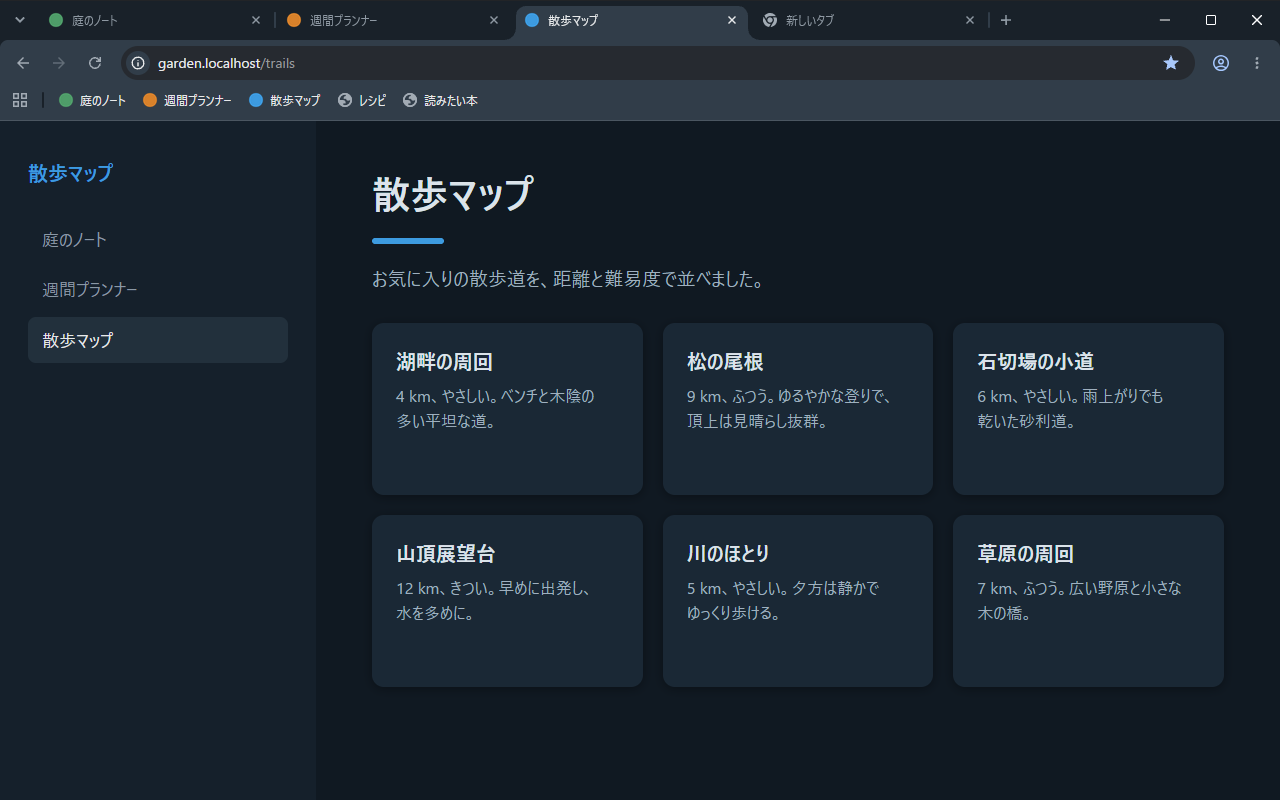
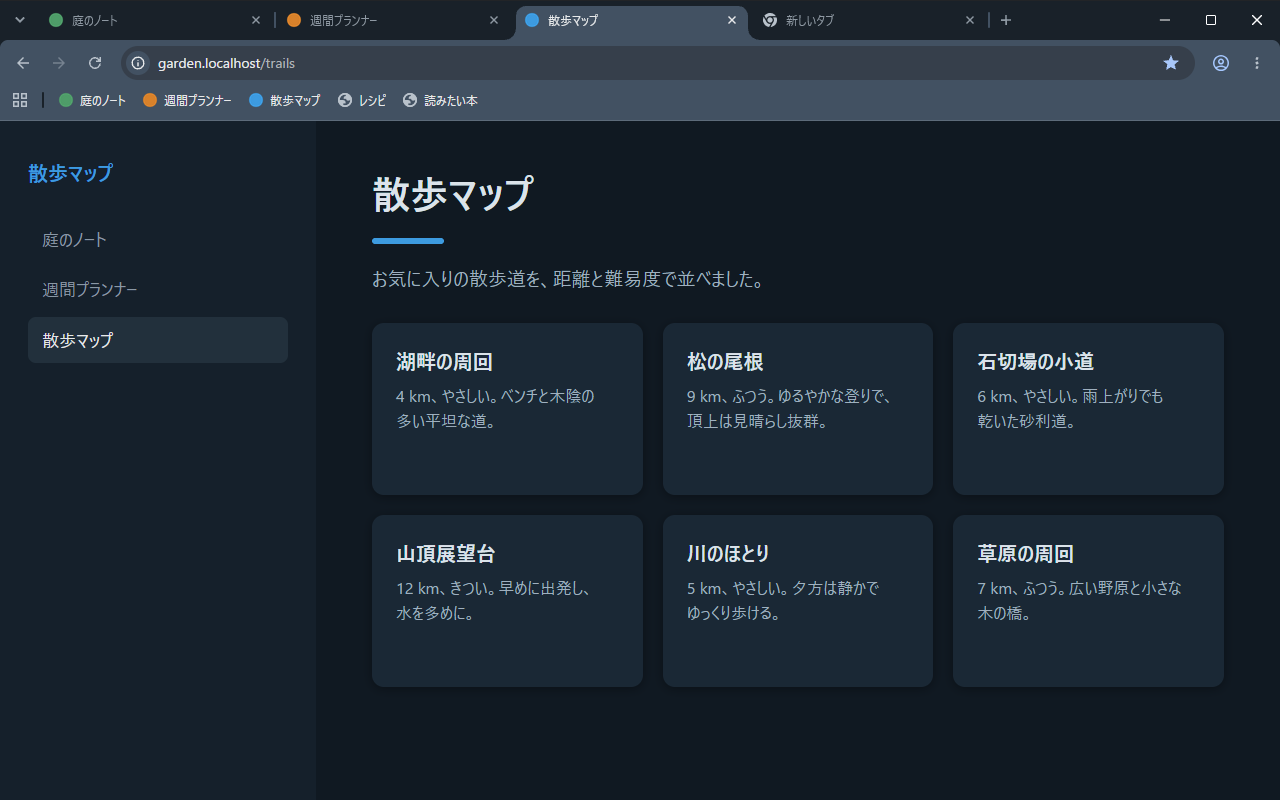
v1.0.2 リリース
ツールバーを明るくして枠との明暗差を 2.0 以上にし、Brave のピン留めタブの枠線を出なくした。
非アクティブなウィンドウの枠とツールバーのアイコンの色も合わせて調整した。
検査・文書・掲載画像も新しい配色に合わせた。

Changed region(s): [[0.0, 0.0, 1.0, 0.1562]]

diff --git a/scripts/check.ts b/scripts/check.ts
@@ -32,6 +32,14 @@ const PAIRS: [string, string][] = [
   ["ntp_text", "ntp_header"],
 ];
 const MIN_CONTRAST = 4.5;
+// 面どうしの組。toolbar 対 frame が 2.0 以上だと Brave のピン留めタブの枠線が消える（GetToolbarTopSeparatorColor）。
+const SURFACE_PAIRS: [string, string][] = [
+  ["toolbar", "frame"],
+  ["toolbar", "frame_inactive"],
+  ["toolbar", "frame_incognito"],
+  ["toolbar", "frame_incognito_inactive"],
+];
+const MIN_SURFACE_CONTRAST = 2.0;
 
 const errors: string[] = [];
 const manifestPath = resolve(process.argv[2] ?? join(import.meta.dir, "..", "manifest.json"));
@@ -73,6 +81,14 @@ for (const [fg, bg] of PAIRS) {
   const r = ratio(f, b);
   console.log(`${r >= MIN_CONTRAST ? "OK  " : "NG  "} ${r.toFixed(2).padStart(5)}  ${fg} on ${bg}`);
   if (r < MIN_CONTRAST) errors.push(`コントラスト不足 ${r.toFixed(2)}: ${fg} on ${bg}`);
+}
+
+for (const [a, c] of SURFACE_PAIRS) {
+  const x = rgb.get(a), y = rgb.get(c);
+  if (!x || !y) { errors.push(`コントラスト対象が未設定: ${a} / ${c}`); continue; }
+  const r = ratio(x, y);
+  console.log(`${r >= MIN_SURFACE_CONTRAST ? "OK  " : "NG  "} ${r.toFixed(2).padStart(5)}  ${a} on ${c} (面・2.0以上)`);
+  if (r < MIN_SURFACE_CONTRAST) errors.push(`面の明暗差不足 ${r.toFixed(2)}: ${a} on ${c}`);
 }
 
 // アイコン: 宣言サイズと PNG の IHDR の実寸が一致すること

diff --git a/scripts/screenshots.ts b/scripts/screenshots.ts
@@ -108,7 +108,7 @@ function runs(r: Raw, axis: "row" | "col", at: number, minLen = 6): string {
 
 // 各画像で「枠」「ツールバー」の色が既定色のままでないことを画素で確かめる（領域は撮影位置が固定なので固定値）
 type Check = { name: string; box: [number, number, number, number]; color: number[]; min: number };
-const FRAME = [0x19, 0x21, 0x29], TOOLBAR = [0x31, 0x3d, 0x49];
+const FRAME = [0x19, 0x21, 0x29], TOOLBAR = [0x42, 0x51, 0x62];
 const checks: Record<string, Check[]> = {
   "screenshot-01.png": [
     { name: "枠(タブ列の空き)", box: [1100, 8, 1140, 28], color: FRAME, min: 0.95 },

diff --git a/AGENTS.md b/AGENTS.md
@@ -1,13 +1,13 @@
 # Dim Dark Blue（Chrome ブラウザテーマ）
 
 - 配色の正本は `manifest.json` の `theme.colors`。色キーは Chromium `chrome/browser/themes/browser_theme_pack.cc` の `kOverwritableColorTable` にあるものだけ（無効キーは Chrome が無言で無視する）。配色表は README.md にも書いているので、変更時は両方を揃える。
-- `toolbar` は `frame` より明るくし、アクティブなタブを区別する（コントラスト比 約1.5。Chrome 既定は #3C3C3C と #1F2020 で約1.48）。Brave のピン留めタブの枠線は両者の明るさから自動で決まり、この配色では明るくなる。
+- `toolbar` は `frame`・`frame_inactive` より明るくし、アクティブなタブを区別する。コントラスト比は 2.0 以上に保つ（現在 約2.0。`check.ts` が検査する）。Brave のピン留めタブの枠線は両者の明るさから自動で決まり（GetToolbarTopSeparatorColor）、比が 2.0 以上だと消える。`frame_inactive` は `frame` と同色にして非アクティブでも比を保つ。`toolbar_button_icon` は toolbar 上で 4.5 以上の最小限の明るさ。
 - `button_background` は使わない（Windows の右上の3ボタンの背景に重なり、枠 `frame` と色がずれる）。
 - 検証: `bun --no-env-file scripts/check.ts`（概要文言・許可キー・RGB 範囲・文字コントラスト 4.5 以上・アイコン実寸）。
 - パッケージ: `bun --no-env-file scripts/pack.ts` で `DimDarkBlue.zip`（manifest.json・_locales・icons・LICENSE のみ）。名前は manifest に直書き、概要は `_locales/{en,ja}` に置く（ストアの掲載情報を日英に分けるため）。ZIP は git に入れない。
 - 版（`manifest.json` の `version`）は通常作業で上げない。上げるのは `/vava` の依頼時だけ。
-- ストア用 CI は未導入（CWS の item ID が未取得）。掲載文の下書きは `store/`。掲載画像は `store/images/`（`en/` と `ja/` に `screenshot-01〜03.png`＝1280x800・アルファなし、言語共通の `tile-small.png`＝440x280）。
-- 掲載画像の再撮影: `bun --no-env-file scripts/screenshots.ts`（Windows・Chrome・Bun 専用、依存ゼロ。言語指定なしは en・ja を順に、言語ごとに別の一時プロファイルの Chrome で撮る。`--locale=en|ja` で 1 言語だけ。タイルは en のときだけ作り直す。ja は `--lang=ja --accept-lang=ja`、HTML の lang・フォント・タブ名・ブックマーク名を日本語にし、撮影中に location.href・navigator.languages・カード文のはみ出しを CDP で実測する）。一時プロファイルの Chrome に一時置き場のテーマのコピーを CDP の `Extensions.loadUnpacked`（`--remote-debugging-pipe`。Chrome 158 では `--load-extension` が効かない）で読み込み、その窓だけを PrintWindow で撮る。窓は画面外に置く。撮影後は枠 `#192129`・ツールバー `#313D49` を画素で確かめる（`--verify` で既存画像の寸法・アルファ・画素、タイルの副題のコントラスト比 4.5 以上、icon-128.png の四隅のアルファ 0 を再検査）。中身は 01 新しいタブ（履歴に残らない data: URL のタブを使い、「よく見るサイト」に自作ページを出さない）、02 `http://garden.localhost/`（外部通信は `MAP * ~NOTFOUND` で遮断し、提案枠の日本語を出さない。`--host-resolver-rules` で 127.0.0.1 とポートを隠す）の自作ページ、03 暗めの自作ページ＋ブックマークバー（Ctrl+Shift+B を送る）。出力される一時フォルダー（`ddb-shot-*`）は Prunlet CLI で片付ける。画像は目視確認してから採用する。
+- ストア用の配信 CI は未導入（CWS の item ID は取得済みの `lphfgjgniogopplcnngbdfidmflajegh`）。掲載文の下書きは `store/`。掲載画像は `store/images/`（`en/` と `ja/` に `screenshot-01〜03.png`＝1280x800・アルファなし、言語共通の `tile-small.png`＝440x280）。
+- 掲載画像の再撮影: `bun --no-env-file scripts/screenshots.ts`（Windows・Chrome・Bun 専用、依存ゼロ。言語指定なしは en・ja を順に、言語ごとに別の一時プロファイルの Chrome で撮る。`--locale=en|ja` で 1 言語だけ。タイルは en のときだけ作り直す。ja は `--lang=ja --accept-lang=ja`、HTML の lang・フォント・タブ名・ブックマーク名を日本語にし、撮影中に location.href・navigator.languages・カード文のはみ出しを CDP で実測する）。一時プロファイルの Chrome に一時置き場のテーマのコピーを CDP の `Extensions.loadUnpacked`（`--remote-debugging-pipe`。Chrome 158 では `--load-extension` が効かない）で読み込み、その窓だけを PrintWindow で撮る。窓は画面外に置く。撮影後は枠 `#192129`・ツールバー `#425162` を画素で確かめる（`--verify` で既存画像の寸法・アルファ・画素、タイルの副題のコントラスト比 4.5 以上、icon-128.png の四隅のアルファ 0 を再検査）。中身は 01 新しいタブ（履歴に残らない data: URL のタブを使い、「よく見るサイト」に自作ページを出さない）、02 `http://garden.localhost/`（外部通信は `MAP * ~NOTFOUND` で遮断し、提案枠の日本語を出さない。`--host-resolver-rules` で 127.0.0.1 とポートを隠す）の自作ページ、03 暗めの自作ページ＋ブックマークバー（Ctrl+Shift+B を送る）。出力される一時フォルダー（`ddb-shot-*`）は Prunlet CLI で片付ける。画像は目視確認してから採用する。
 - シークレット窓にはこのテーマが適用されない（Chrome 158・CDP の unpacked 読み込みで実測。ストアから入れた場合は未確認。枠が既定の `#1F2020` のまま）ため、掲載画像にシークレットは使わない（撮影スクリプトに確認処理は残していない）。
 - Twitter / X の商標語は manifest・ストア文に入れない。ロゴやそれに似た図形もアイコンに使わない。
 - permissions・JS・HTML は追加しない（画像なしの colors テーマ）。

diff --git a/CHANGELOG.md b/CHANGELOG.md
@@ -5,6 +5,14 @@
 
 ## [Unreleased]
 
+## [1.0.2] - 2026-11-25
+
+### Changed
+
+- ツールバー（アクティブなタブ）をさらに明るくし、枠との明暗差を広げた。Brave のピン留めタブの枠線が出なくなる。アドレスバーと周りの明暗差は変わらない
+- 非アクティブなウィンドウの枠・背景タブを、アクティブ時と同じ色にした
+- ツールバーのアイコンを少し明るくした
+
 ## [1.0.1] - 2026-11-25
 
 ### Changed
